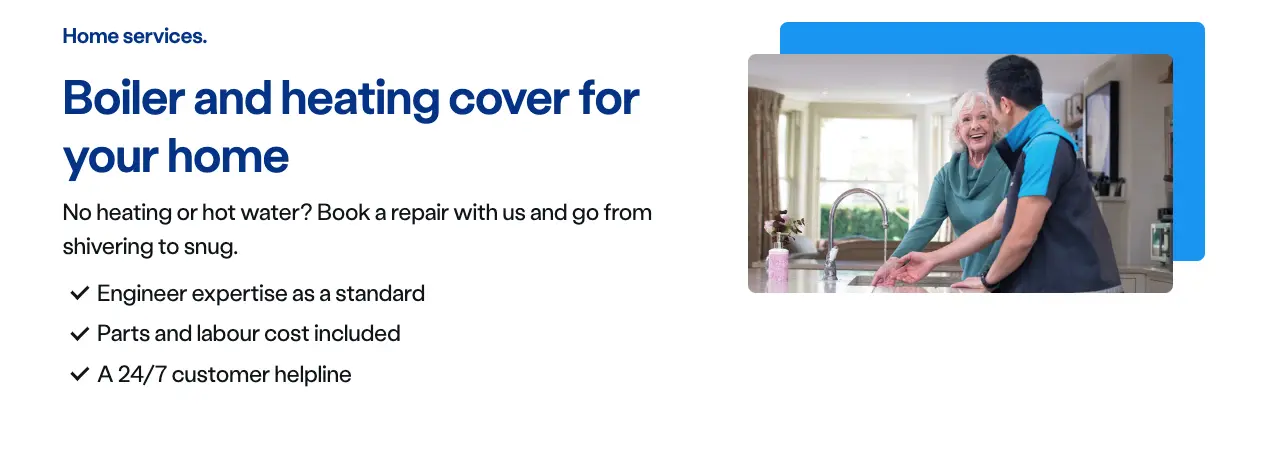
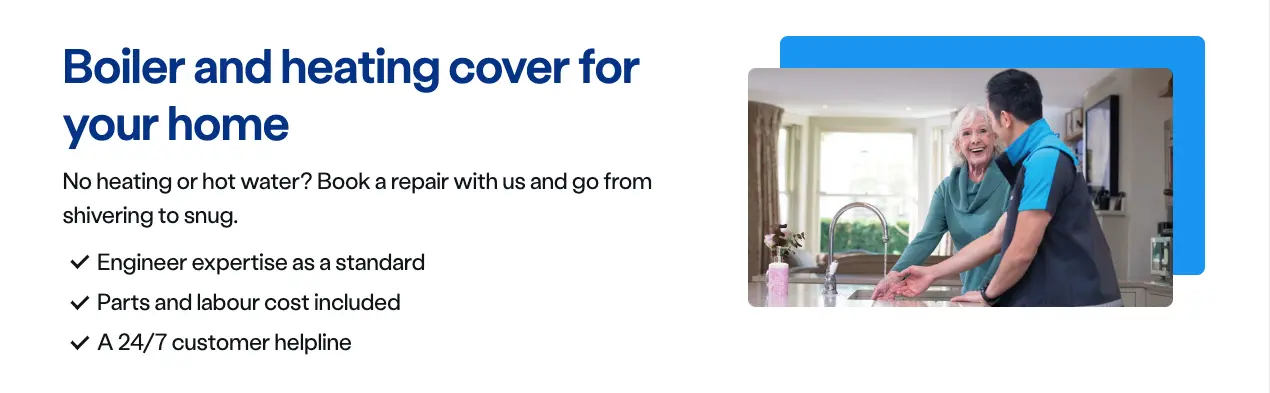
Updated Valley best practice images added colour and ratio

diff --git a/docs/components/ns-landmark.md b/docs/components/ns-landmark.md
@@ -128,9 +128,9 @@ Landmarks are used to set the scene for what the page is for, what offers might 
 | Use checked list to highlight your key product benefits | Add a CTA if the purpose of the page is for users to consume the content. |
 | ![use-a-checked-list](images/ns-landmark/best-practice-do1-valley.webp) | ![dont-add-a-cta](images/ns-landmark/best-practice-dont1-valley.webp) |
 | Use a complementary image to add context to your product or service | Use long, verbose content. Keep the user interested with a snappy overview and draw them down the page |
-| ![complementary-image](image/../images/ns-landmark/best-practice-do2-valley.webp) | ![use-short-content](image/../images/ns-landmark/best-practice-dont2-valley.webp) |
-|  | Forget to use an image |
-|  | ![use-an-image](images/ns-landmark/best-practice-dont3-valley.webp) |
+| ![complementary-image](images/ns-landmark/best-practice-do2-valley.webp) | ![use-short-content](images/ns-landmark/best-practice-dont2-valley.webp) |
+| Use colour, pill and ratio options for alternative aesthetics | Forget to use an image |
+| ![use-colour-and-ratio-options](images/ns-landmark/best-practice-do3-valley.webp) | ![use-an-image](images/ns-landmark/best-practice-dont3-valley.webp) |
 
 
 ### Considerations of best practice
